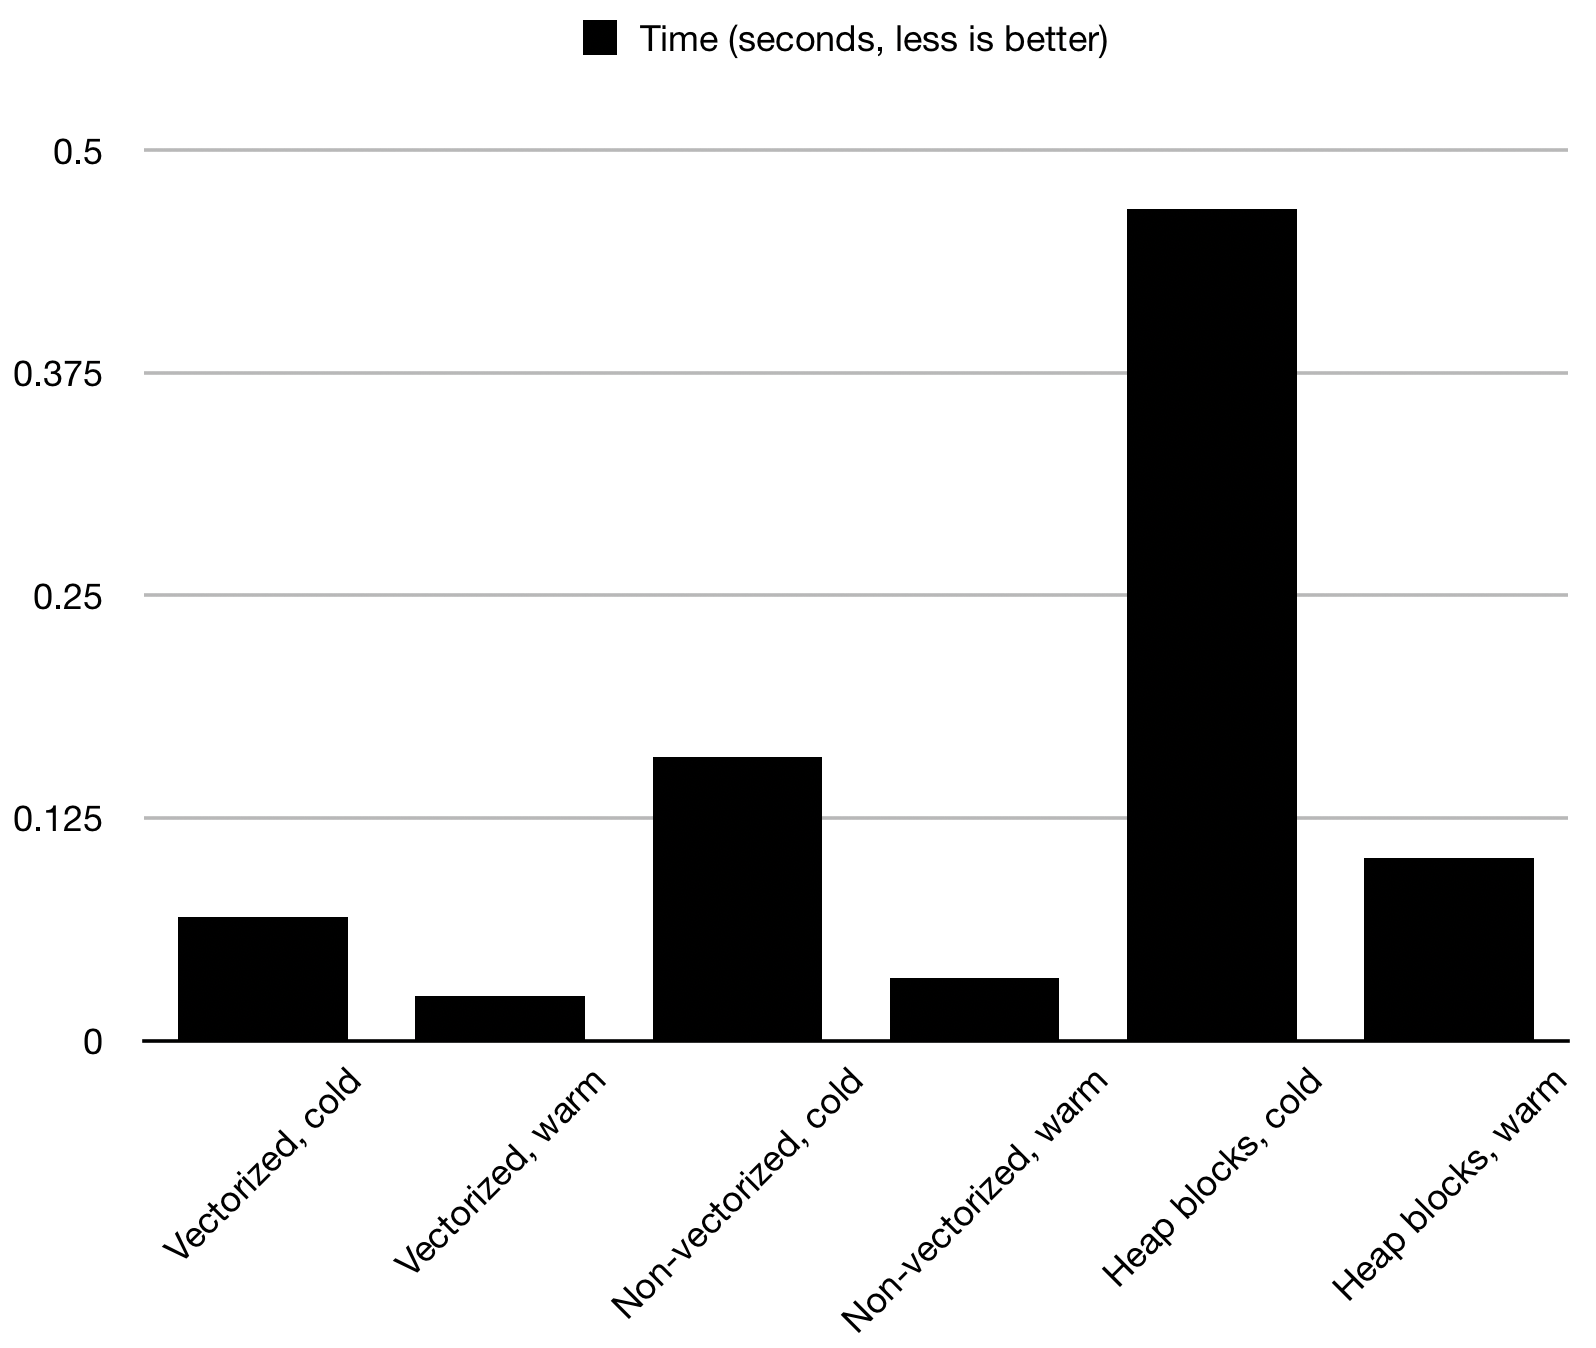
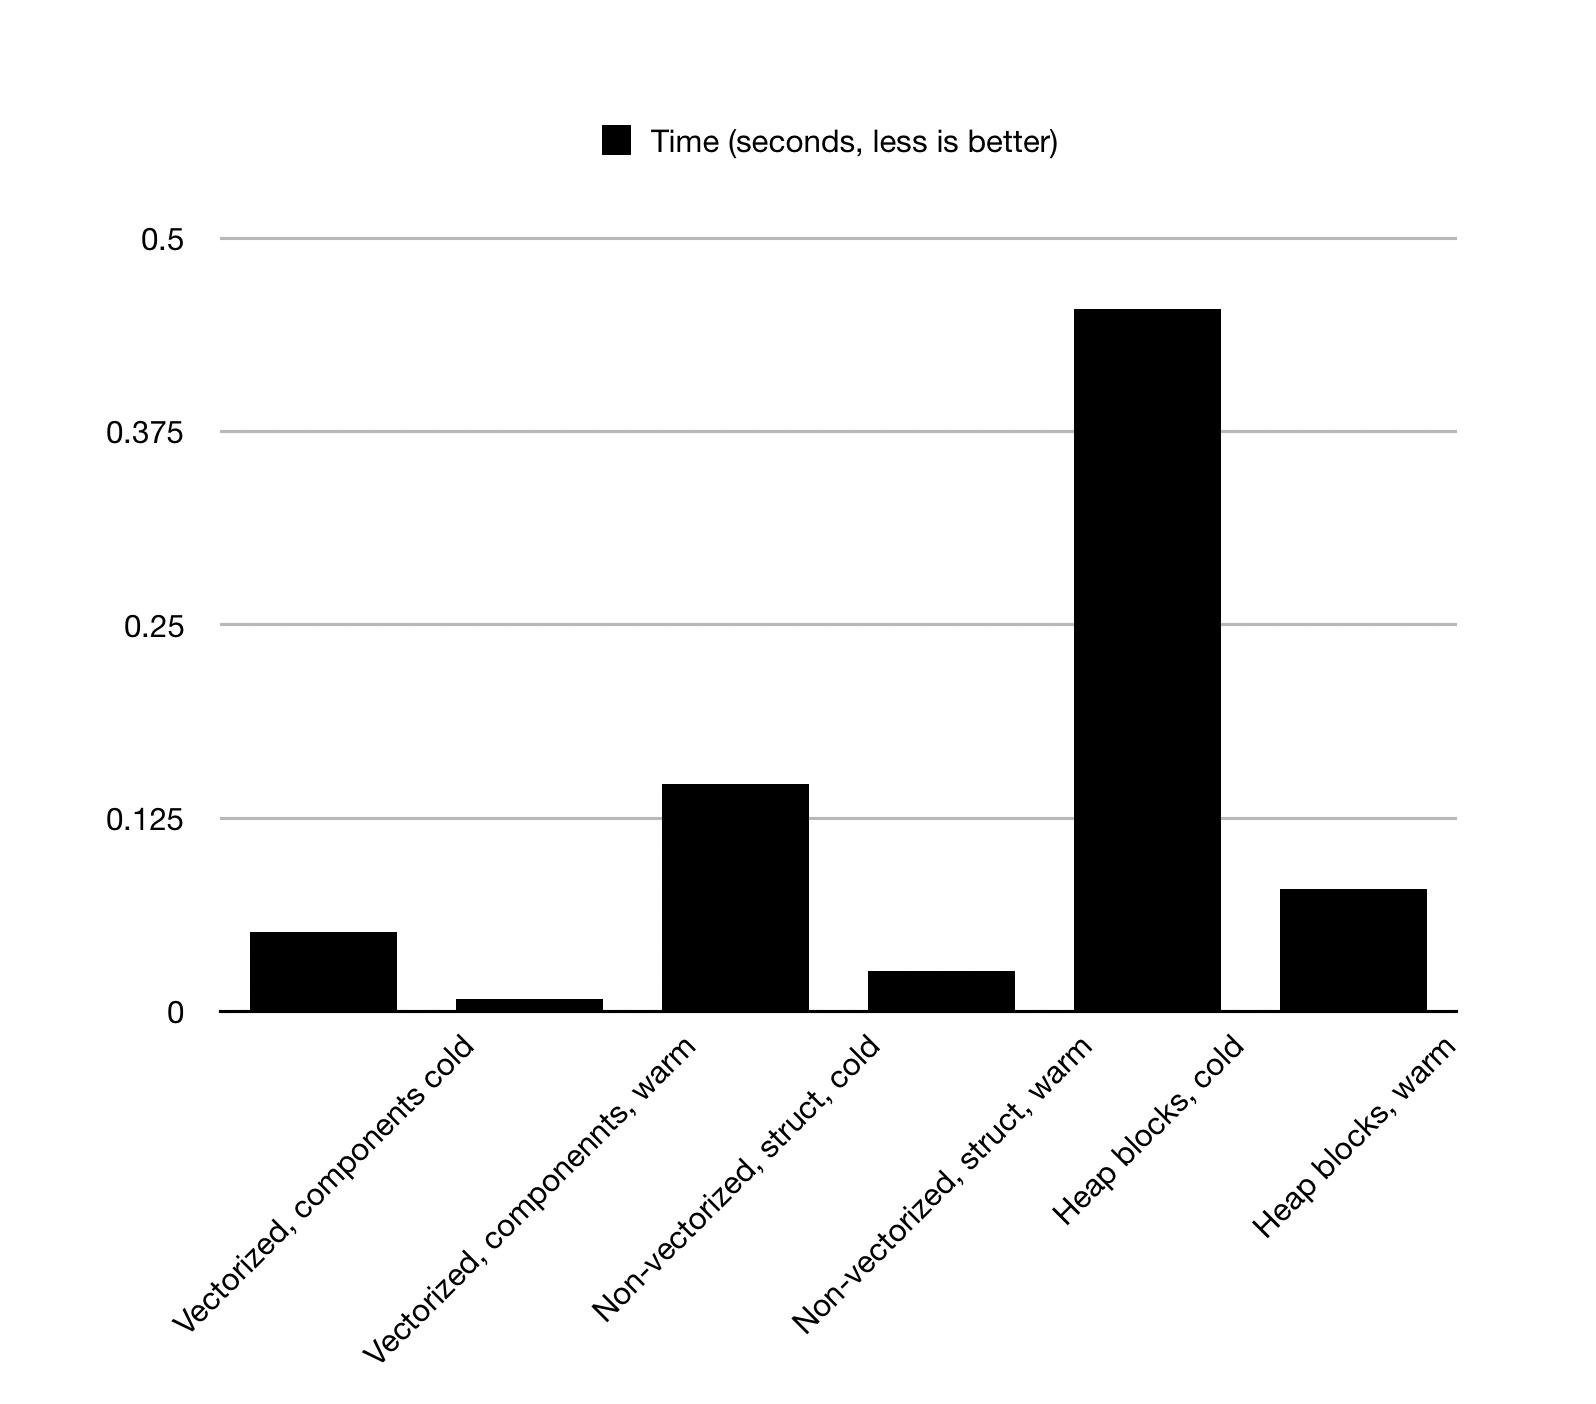
Update image & benchmark, force vectorization with pragma

diff --git a/src/main.c b/src/main.c
@@ -64,38 +64,43 @@ void benchmark(int count) {
 
     /* -- Attributes in separate arrays */
     timespec_gettime(&start);
+#pragma clang loop vectorize(enable)
     for(int i = 0; i < count; i ++) {
         x[i] += s[i];
         y[i] += s[i];
     }
-    printf("Attributes in separate arrays, cold:       %f\n", timespec_measure(&start));
+    printf("Attributes in separate arrays, cold:       %f (V)\n", timespec_measure(&start));
 
     timespec_gettime(&start);
+#pragma clang loop vectorize(enable)
     for(int i = 0; i < count; i ++) {
         x[i] += s[i];
         y[i] += s[i];
     }
-    printf("Attributes in separate arrays, warm:       %f\n", timespec_measure(&start));
+    printf("Attributes in separate arrays, warm:       %f (V)\n", timespec_measure(&start));
 
 
     /* -- Position in a separate struct */
     timespec_gettime(&start);
+#pragma clang loop vectorize(enable)
     for(int i = 0; i < count; i ++) {
         positions[i].x += speeds[i];
         positions[i].y += speeds[i];
     }
-    printf("Position attributes in struct, cold:       %f\n", timespec_measure(&start));
+    printf("Position attributes in struct, cold:       %f (V)\n", timespec_measure(&start));
 
     timespec_gettime(&start);
+#pragma clang loop vectorize(enable)
     for(int i = 0; i < count; i ++) {
         positions[i].x += speeds[i];
         positions[i].y += speeds[i];
     }
-    printf("Position attributes in struct, warm:       %f\n", timespec_measure(&start));
+    printf("Position attributes in struct, warm:       %f (V)\n", timespec_measure(&start));
 
 
     /* -- All attributes in one Entity struct (contains also other, unused data) */
     timespec_gettime(&start);
+#pragma clang loop vectorize(disable)
     for(int i = 0; i < count; i ++) {
         entities[i].p.x += entities[i].s;
         entities[i].p.y += entities[i].s;
@@ -103,6 +108,7 @@ void benchmark(int count) {
     printf("Attributes in one struct, cold:            %f\n", timespec_measure(&start));
 
     timespec_gettime(&start);
+#pragma clang loop vectorize(disable)
     for(int i = 0; i < count; i ++) {
         entities[i].p.x += entities[i].s;
         entities[i].p.y += entities[i].s;
@@ -112,6 +118,7 @@ void benchmark(int count) {
 
     /* -- All attributes in one Entity struct, each separately allocated on heap */
     timespec_gettime(&start);
+#pragma clang loop vectorize(disable)
     for(int i = 0; i < count; i ++) {
         Entity *e = entity_ptrs[i];
         e->p.x += e->s;
@@ -120,6 +127,7 @@ void benchmark(int count) {
     printf("Attributes in one alloc'd struct, cold:    %f\n", timespec_measure(&start));
 
     timespec_gettime(&start);
+#pragma clang loop vectorize(disable)
     for(int i = 0; i < count; i ++) {
         Entity *e = entity_ptrs[i];
         e->p.x += e->s;

diff --git a/README.md b/README.md
@@ -64,92 +64,92 @@ Benchmarks:
 ```
 -- Preparing data for 100000 entities
 -- Start benchmarks
-Attributes in separate arrays, cold:       0.000825
-Attributes in separate arrays, warm:       0.000304
-Position attributes in struct, cold:       0.000790
-Position attributes in struct, warm:       0.000320
-Attributes in one struct, cold:            0.001730
-Attributes in one struct, warm:            0.000318
-Attributes in one alloc'd struct, cold:    0.005215
-Attributes in one alloc'd struct, warm:    0.000986
+Attributes in separate arrays, cold:       0.000488 (V)
+Attributes in separate arrays, warm:       0.000041 (V)
+Position attributes in struct, cold:       0.000515 (V)
+Position attributes in struct, warm:       0.000051 (V)
+Attributes in one struct, cold:            0.001522
+Attributes in one struct, warm:            0.000397
+Attributes in one alloc'd struct, cold:    0.005085
+Attributes in one alloc'd struct, warm:    0.000788
 -- Cleaning up data
 -- Benchmarks done
 
 -- Preparing data for 1000000 entities
 -- Start benchmarks
-Attributes in separate arrays, cold:       0.007096
-Attributes in separate arrays, warm:       0.002616
-Position attributes in struct, cold:       0.006967
-Position attributes in struct, warm:       0.002492
-Attributes in one struct, cold:            0.016007
-Attributes in one struct, warm:            0.003966
-Attributes in one alloc'd struct, cold:    0.045979
-Attributes in one alloc'd struct, warm:    0.008424
+Attributes in separate arrays, cold:       0.005154 (V)
+Attributes in separate arrays, warm:       0.000744 (V)
+Position attributes in struct, cold:       0.005031 (V)
+Position attributes in struct, warm:       0.000676 (V)
+Attributes in one struct, cold:            0.014226
+Attributes in one struct, warm:            0.003126
+Attributes in one alloc'd struct, cold:    0.047704
+Attributes in one alloc'd struct, warm:    0.007410
 -- Cleaning up data
 -- Benchmarks done
 
 -- Preparing data for 1000000 entities
 -- Start benchmarks
-Attributes in separate arrays, cold:       0.003259
-Attributes in separate arrays, warm:       0.002521
-Position attributes in struct, cold:       0.003120
-Position attributes in struct, warm:       0.002442
-Attributes in one struct, cold:            0.006148
-Attributes in one struct, warm:            0.003110
-Attributes in one alloc'd struct, cold:    0.045164
-Attributes in one alloc'd struct, warm:    0.008291
+Attributes in separate arrays, cold:       0.001332 (V)
+Attributes in separate arrays, warm:       0.000645 (V)
+Position attributes in struct, cold:       0.001396 (V)
+Position attributes in struct, warm:       0.000755 (V)
+Attributes in one struct, cold:            0.005490
+Attributes in one struct, warm:            0.002581
+Attributes in one alloc'd struct, cold:    0.045237
+Attributes in one alloc'd struct, warm:    0.006892
 -- Cleaning up data
 -- Benchmarks done
 
 -- Preparing data for 10000000 entities
 -- Start benchmarks
-Attributes in separate arrays, cold:       0.069618
-Attributes in separate arrays, warm:       0.024966
-Position attributes in struct, cold:       0.067765
-Position attributes in struct, warm:       0.024406
-Attributes in one struct, cold:            0.159106
-Attributes in one struct, warm:            0.035251
-Attributes in one alloc'd struct, cold:    0.466851
-Attributes in one alloc'd struct, warm:    0.102340
+Attributes in separate arrays, cold:       0.051307 (V)
+Attributes in separate arrays, warm:       0.006719 (V)
+Position attributes in struct, cold:       0.051314 (V)
+Position attributes in struct, warm:       0.007922 (V)
+Attributes in one struct, cold:            0.147165
+Attributes in one struct, warm:            0.026485
+Attributes in one alloc'd struct, cold:    0.453954
+Attributes in one alloc'd struct, warm:    0.079158
 -- Cleaning up data
 -- Benchmarks done
 
 -- Preparing data for 50000000 entities
 -- Start benchmarks
-Attributes in separate arrays, cold:       0.359707
-Attributes in separate arrays, warm:       0.137166
-Position attributes in struct, cold:       0.355077
-Position attributes in struct, warm:       0.135211
-Attributes in one struct, cold:            0.833434
-Attributes in one struct, warm:            0.184556
-Attributes in one alloc'd struct, cold:    2.738726
-Attributes in one alloc'd struct, warm:    0.780988
+Attributes in separate arrays, cold:       0.250698 (V)
+Attributes in separate arrays, warm:       0.034717 (V)
+Position attributes in struct, cold:       0.263129 (V)
+Position attributes in struct, warm:       0.049825 (V)
+Attributes in one struct, cold:            0.772695
+Attributes in one struct, warm:            0.169159
+Attributes in one alloc'd struct, cold:    2.792307
+Attributes in one alloc'd struct, warm:    3.565040
 -- Cleaning up data
 -- Benchmarks done
 
 -- Preparing data for 100000000 entities
 -- Start benchmarks
-Attributes in separate arrays, cold:       0.716531
-Attributes in separate arrays, warm:       0.272533
-Position attributes in struct, cold:       0.705356
-Position attributes in struct, warm:       0.268394
-Attributes in one struct, cold:            1.678093
-Attributes in one struct, warm:            0.365475
-Attributes in one alloc'd struct, cold:    7.647449
-Attributes in one alloc'd struct, warm:    10.089399
+Attributes in separate arrays, cold:       0.514042 (V)
+Attributes in separate arrays, warm:       0.092840 (V)
+Position attributes in struct, cold:       0.596283 (V)
+Position attributes in struct, warm:       0.108926 (V)
+Attributes in one struct, cold:            1.678798
+Attributes in one struct, warm:            0.374491
+Attributes in one alloc'd struct, cold:    6.911441
+Attributes in one alloc'd struct, warm:    10.208863
 -- Cleaning up data
 -- Benchmarks done
 
 -- Preparing data for 200000000 entities
 -- Start benchmarks
-Attributes in separate arrays, cold:       1.453424
-Attributes in separate arrays, warm:       0.546632
-Position attributes in struct, cold:       1.424962
-Position attributes in struct, warm:       0.537129
-Attributes in one struct, cold:            4.488125
-Attributes in one struct, warm:            6.447619
-Attributes in one alloc'd struct, cold:    15.015039
-Attributes in one alloc'd struct, warm:    22.875200
+Attributes in separate arrays, cold:       1.064743 (V)
+Attributes in separate arrays, warm:       0.194111 (V)
+Position attributes in struct, cold:       1.069347 (V)
+Position attributes in struct, warm:       0.197115 (V)
+Attributes in one struct, cold:            4.501781
+Attributes in one struct, warm:            6.131327
+Attributes in one alloc'd struct, cold:    15.995863
+Attributes in one alloc'd struct, warm:    23.364604
 -- Cleaning up data
 -- Benchmarks done
 ```
